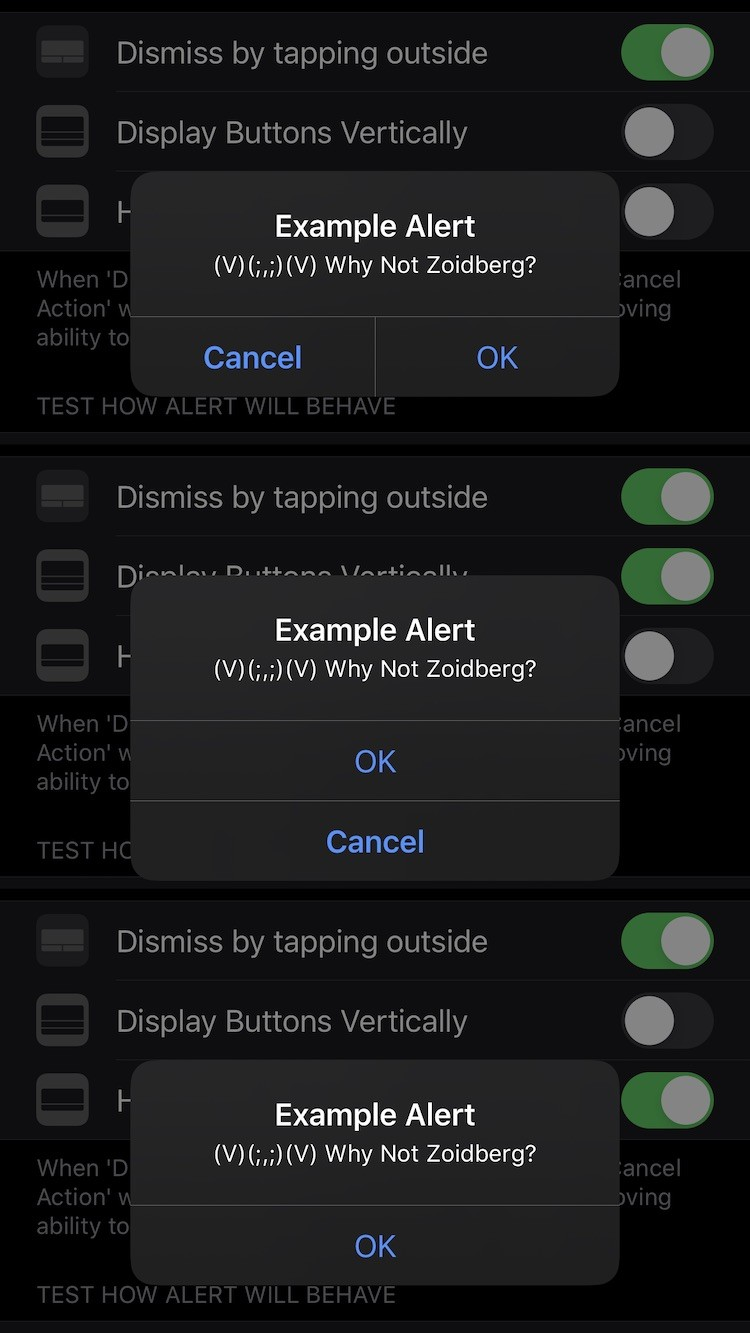
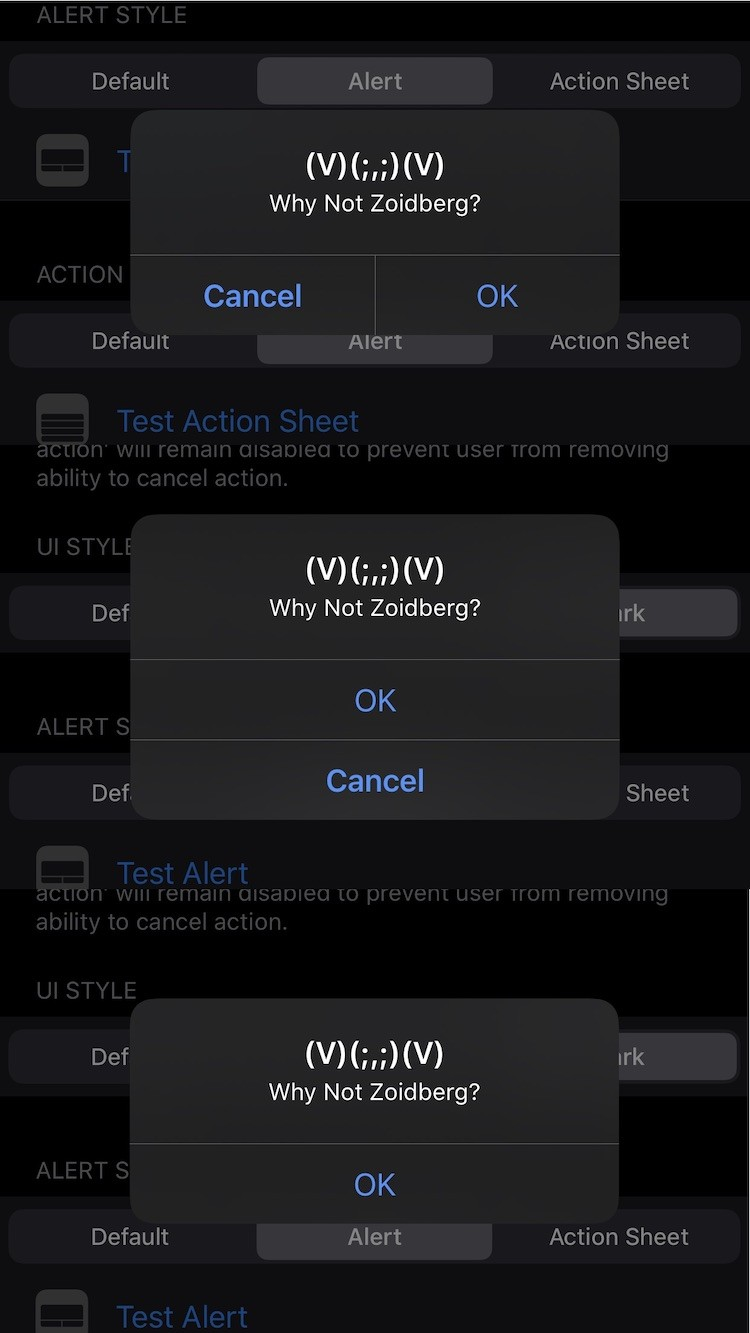
Added ability to choose UI Style of Alerts and Action Sheets and ability to use each other appearance

diff --git a/AlertControllerSettings/AlertControllerSettings.mm b/AlertControllerSettings/AlertControllerSettings.mm
@@ -28,14 +28,12 @@
 - (void) showExampleAlert
 {
 	UIAlertController *alert = [UIAlertController alertControllerWithTitle:@"(V)(;,;)(V)" message:@"Why Not Zoidberg?" preferredStyle:UIAlertControllerStyleAlert];
-
 	[alert addAction:[UIAlertAction actionWithTitle:@"OK" style:UIAlertActionStyleDefault handler:nil]];
 	[alert addAction:[UIAlertAction actionWithTitle:@"Cancel" style:UIAlertActionStyleCancel handler:nil]];
 	[self presentViewController:alert animated:YES completion:nil];
 }
 - (void) showExampleActionSheet
 {
-
 	UIAlertController *actionSheet = [UIAlertController alertControllerWithTitle:@"( ͡° ͜ʖ ͡°)" message:nil preferredStyle:UIAlertControllerStyleActionSheet];
 	[actionSheet addAction:[UIAlertAction actionWithTitle:@"(╯°益°)╯彡┻━┻" style:UIAlertActionStyleDefault handler:nil]];
 	[actionSheet addAction:[UIAlertAction actionWithTitle:@"( ͡° ͜ʖ ͡°) ( ͡⊙ ͜ʖ ͡⊙) ( ͡◉ ͜ʖ ͡◉ )" style:UIAlertActionStyleDefault handler:nil]];

diff --git a/README.md b/README.md
@@ -1,4 +1,4 @@
-*Alert Controller - change UX of your alerts*
+*Alert Controller - change UX and UI of your Alerts and Action Sheets*
 
 **Requires iOS greater or equal to 13**
 
@@ -6,6 +6,8 @@
 - Dismiss by tapping outside
 - Display buttons vertically
 - Hide cancel action
+- Choose UI Style of Alerts and Action Sheets
+- Choose Style of Alerts and Action Sheets (they can use each other appearance)
 
 Configure options from Settings.
 
@@ -14,4 +16,5 @@ Thanks to **[Jonathan Winger-Lang](https://github.com/jontelang)** for [code rev
 **Screenshots:**
 
 ![settings](screenshots/alertcontroller1.jpg)
-![example alert](screenshots/alertcontroller2.jpg)
+![example alerts](screenshots/alertcontroller2.jpg)
+![example action sheets](screenshots/alertcontroller3.jpg)
